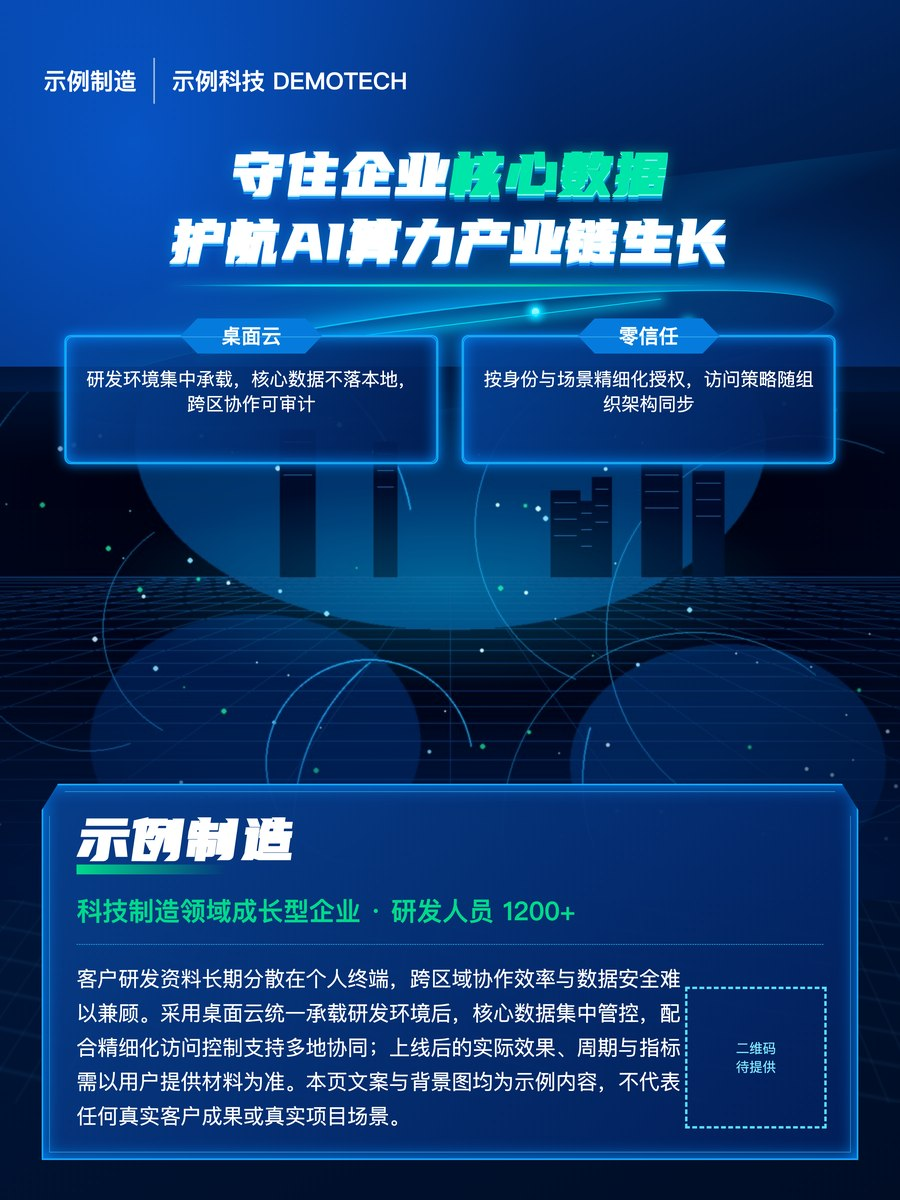
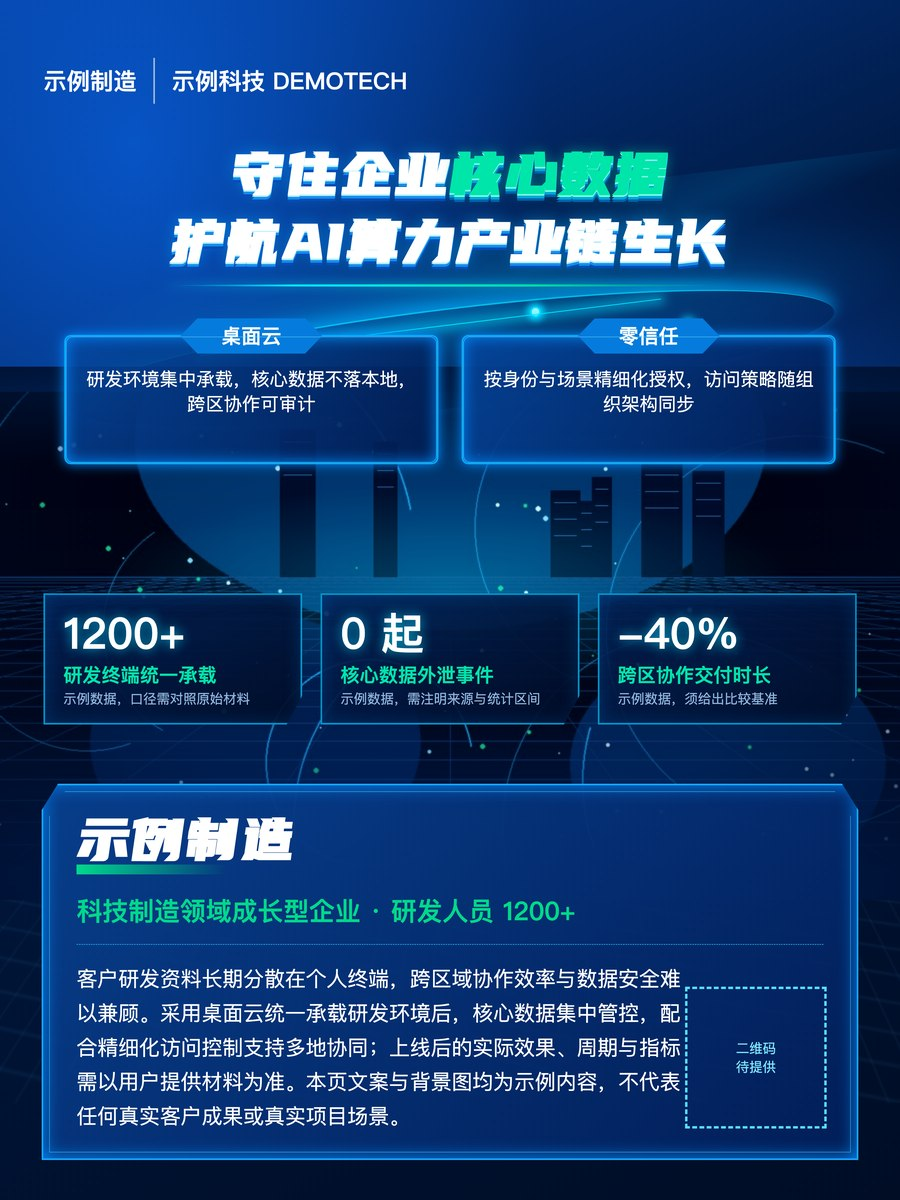
feat(case): 案例版新增量化成果带（results，最多 3 张卡）
- render_poster.py 支持可选 results 字段，压在场景主视觉下沿，缺省不渲染（向后兼容已验证）
- case-poster.md / input-output.md 补充字段规范：无可核验数字不得凑数，有数字必须带 note 口径
- 示例 brief 与两张预览图重出，案例版信息密度与产品版对齐
- README 与在线 Demo 的风格卡片、路由信号表同步

Changed region(s): [[0.0311, 0.4933, 0.9644, 0.6167]]

diff --git a/docs/index.html b/docs/index.html
@@ -158,7 +158,7 @@ footer{margin-top:34px;font-size:12px;color:var(--muted);line-height:1.9;border-
       <img src="img/style-case.jpg" alt="客户案例版海报示例（深底）">
       <div class="sc-body">
         <h3>客户案例版<span class="pill dark">深底 · 1080×1440</span></h3>
-        <p>靠<b>场景、客户背书与结果叙事</b>建立可信度：联合品牌区、大主题、方案卡、实景 hero、客户故事块。</p>
+        <p>靠<b>场景、客户背书与结果叙事</b>建立可信度：联合品牌区、大主题、方案卡、实景 hero、量化成果带、客户故事块。</p>
         <ul class="sc-sig"><li>客户名称/Logo</li><li>遇到的问题</li><li>落地成果</li><li>实景照片</li><li>多地协同</li></ul>
         <p class="sc-rec">推荐：优设标题黑 × 立体挤出（对应 Skill 的 tech-shadow 暗底 + 发光描边）</p>
       </div>

diff --git a/scripts/render_poster.py b/scripts/render_poster.py
@@ -218,20 +218,25 @@ h1{font-size:50px;line-height:1.04;margin:8px 0 0;max-width:660px}.poster h1.h1a
 
 def case(d):
     solutions = "".join(f'<div class="solution"><b>{e(x.get("name"))}</b><span>{e(x.get("value"))}</span></div>' for x in d.get("solutions",[])[:2])
+    results = d.get("results") or []
+    results_html = "".join(
+        f'<div class="result"><b>{e(x.get("value"))}</b><span>{e(x.get("label"))}</span>'
+        f'<small>{e(x.get("note"))}</small></div>' for x in results[:3])
+    results_block = (f'<div class="results">{results_html}</div>' if results_html else "")
     customer_logo, vendor_logo, hero, qr = map(url, [d.get("customer_logo"),d.get("vendor_logo"),d.get("hero_image"),d.get("qr_image")])
     css = BASE + art_css(d, dark=True) + """
 .poster{width:1080px;height:1440px;padding:54px 52px;color:white;background:#001337;isolation:isolate}.poster:before{content:'';position:absolute;inset:0;z-index:-4;background:radial-gradient(ellipse at 15% 12%,#0754c5 0,transparent 38%),radial-gradient(ellipse at 85% 42%,#063d96 0,transparent 34%),linear-gradient(155deg,#063f9e 0,#00183f 38%,#000d25 100%)}.poster:after{content:'';position:absolute;left:-8%;right:-8%;top:245px;height:270px;z-index:-3;background:radial-gradient(ellipse at 52% 50%,rgba(0,174,255,.28),transparent 58%),linear-gradient(164deg,transparent 35%,rgba(0,188,255,.12) 48%,transparent 57%);transform:rotate(-7deg)}.content{position:relative;z-index:4}.brands{height:86px;display:flex;align-items:center;gap:20px}.brands img{max-height:60px;max-width:250px;object-fit:contain;background:#fff;padding:7px 12px;border-radius:6px}.divider{height:55px;width:2px;background:#9bb8dc}.brand-text{font-weight:800;font-size:28px}
 .poster .tech-grid{position:absolute;z-index:-2;left:-5%;right:-5%;top:430px;height:610px;opacity:.32;background:repeating-linear-gradient(8deg,transparent 0 9px,rgba(72,183,255,.22) 10px,transparent 11px),repeating-linear-gradient(98deg,transparent 0 13px,rgba(72,183,255,.16) 14px,transparent 15px);transform:perspective(500px) rotateX(48deg) scale(1.25)}.poster .energy-line{position:absolute;z-index:1;left:7%;right:7%;top:370px;height:120px;border-top:2px solid rgba(0,218,255,.8);border-radius:50%;transform:rotate(-7deg);box-shadow:0 -7px 18px rgba(0,174,255,.6),0 -18px 32px rgba(0,174,255,.22)}.poster .energy-line:after{content:'';position:absolute;left:18%;right:22%;top:18px;height:1px;background:#00e6ff;box-shadow:0 0 13px 4px rgba(0,219,255,.7)}.poster .energy-line:before{content:'';position:absolute;left:61%;top:9px;width:9px;height:9px;background:#d8ffff;border:2px solid #00dfff;border-radius:50%;box-shadow:0 0 8px 4px #00cfff,180px 38px 0 -2px #baffff,180px 38px 0 0 #00dfff,180px 38px 10px 3px #00cfff}
 h1{margin:28px auto 58px;text-align:center;font-size:70px;line-height:1.15;letter-spacing:inherit}.poster h1.h1art{font-style:normal;text-shadow:0 2px 0 #b9efff,0 5px 0 #148fe8,0 8px 0 #064bba,0 0 18px rgba(0,170,255,.48)}.poster h1.h1art .hl{color:#00e5aa;text-shadow:0 2px 0 #7effe2,0 5px 0 #00a9d6,0 8px 0 #0063ae,0 0 15px rgba(0,230,170,.42)}.poster h1.h1art:after{content:'';display:block;height:3px;width:70%;margin:12px auto 0;background:linear-gradient(90deg,transparent,#00e9ff 22%,#00dca4 65%,transparent);box-shadow:0 0 12px #00cfff;border-radius:50%}.solutions{display:flex;justify-content:center;gap:28px;min-height:155px}.solution{width:46%;padding:32px 18px 18px;text-align:center;background:linear-gradient(135deg,rgba(5,71,160,.88),rgba(2,26,78,.88));border:2px solid #00aefc;box-shadow:0 0 18px #008cff inset,0 0 14px #008cff;position:relative;min-height:142px;border-radius:8px}.solution:after{content:'';position:absolute;inset:0;border:1px solid rgba(115,226,255,.45);border-radius:8px;pointer-events:none}.solution b{position:absolute;top:-22px;left:50%;transform:translateX(-50%);min-width:170px;padding:8px 24px;background:#057bdd;clip-path:polygon(12% 0,88% 0,100% 50%,88% 100%,12% 100%,0 50%);font-size:24px;line-height:1.1}.solution span{font-size:22px;line-height:1.35;display:block;padding-top:4px}
 .hero{position:absolute;z-index:0;left:0;top:470px;width:100%;height:570px;object-fit:cover;filter:saturate(.86) contrast(1.08)}.hero-shade{position:absolute;z-index:1;left:0;right:0;top:440px;height:640px;background:radial-gradient(ellipse at 50% 34%,transparent 0 32%,rgba(0,13,42,.12) 58%,rgba(0,12,38,.72) 100%),linear-gradient(#00183f 0%,transparent 18%,transparent 65%,#00225e 100%)}.hero-light{position:absolute;z-index:1;left:8%;right:8%;top:570px;height:270px;background:radial-gradient(ellipse,rgba(0,205,255,.28),transparent 65%);mix-blend-mode:screen;pointer-events:none}.story{position:absolute;z-index:3;left:50px;right:50px;bottom:48px;min-height:390px;padding:30px 40px;background:linear-gradient(135deg,rgba(8,65,145,.92),rgba(2,31,91,.93));border:2px solid #18a9ff;box-shadow:0 0 22px #008cff inset,0 0 16px #008cff;clip-path:polygon(2% 0,98% 0,100% 7%,100% 100%,0 100%,0 7%)}.story:before{content:'';position:absolute;inset:7px;z-index:-1;border:1px solid rgba(91,223,255,.45);clip-path:polygon(2% 0,98% 0,100% 7%,100% 100%,0 100%,0 7%)}
-.customer{font-size:70px;line-height:1;font-weight:900;margin-bottom:22px}.customer:after{content:'';display:block;width:180px;height:12px;margin-top:-5px;background:linear-gradient(90deg,#00d98b,transparent)}.position{font-size:31px;color:#00d98b;font-weight:800;padding-bottom:18px;border-bottom:1px dashed #12a7e4}.summary{max-width:730px;font-size:25px;line-height:1.65;margin:20px 0 0}.qr{position:absolute;width:170px;height:170px;right:36px;bottom:36px;background:white;padding:10px;border:4px solid #56dfff}.qr-placeholder{position:absolute;right:36px;bottom:36px;width:170px;height:170px;border:3px dashed #56dfff;display:grid;place-items:center;text-align:center;color:#7feaff}
+.results{position:absolute;z-index:2;left:52px;right:52px;top:712px;display:flex;gap:22px}.result{flex:1 1 0;min-width:0;padding:20px 22px 18px;background:linear-gradient(150deg,rgba(3,32,84,.9),rgba(0,12,38,.94));border:2px solid rgba(0,200,255,.72);box-shadow:0 0 16px rgba(0,140,255,.55),0 0 22px rgba(0,140,255,.22) inset;clip-path:polygon(0 0,100% 0,100% 78%,94% 100%,0 100%);display:flex;flex-direction:column;gap:2px}.result b{font-size:52px;line-height:1;font-weight:900;color:#fff;text-shadow:0 0 14px rgba(0,220,255,.75)}.result span{font-size:23px;font-weight:700;color:#00e5aa;margin-top:6px}.result small{font-size:16px;color:#8fb6dd;line-height:1.35}.customer{font-size:70px;line-height:1;font-weight:900;margin-bottom:22px}.customer:after{content:'';display:block;width:180px;height:12px;margin-top:-5px;background:linear-gradient(90deg,#00d98b,transparent)}.position{font-size:31px;color:#00d98b;font-weight:800;padding-bottom:18px;border-bottom:1px dashed #12a7e4}.summary{max-width:730px;font-size:25px;line-height:1.65;margin:20px 0 0}.qr{position:absolute;width:170px;height:170px;right:36px;bottom:36px;background:white;padding:10px;border:4px solid #56dfff}.qr-placeholder{position:absolute;right:36px;bottom:36px;width:170px;height:170px;border:3px dashed #56dfff;display:grid;place-items:center;text-align:center;color:#7feaff}
 """
     left = f'<img src="{customer_logo}">' if customer_logo else f'<span class="brand-text">{e(d.get("customer"))}</span>'
     right = f'<img src="{vendor_logo}">' if vendor_logo else f'<span class="brand-text">{e(d.get("brand"))}</span>'
     hero_tag = f'<img class="hero" src="{hero}">' if hero else ""
     qr_tag = f'<img class="qr" src="{qr}">' if qr else '<div class="qr-placeholder">二维码<br>待提供</div>'
     campaign = rich(d.get("campaign"))
-    body = f'<div class="poster"><div class="tech-grid"></div><div class="energy-line"></div><div class="content"><div class="brands">{left}<i class="divider"></i>{right}</div><h1 class="h1art">{campaign}</h1><div class="solutions">{solutions}</div></div>{hero_tag}<div class="hero-shade"></div><div class="hero-light"></div><div class="story"><div class="customer h1art">{e(d.get("customer"))}</div><div class="position">{e(d.get("customer_position"))}</div><p class="summary">{e(d.get("summary"))}</p>{qr_tag}</div></div>'
+    body = f'<div class="poster"><div class="tech-grid"></div><div class="energy-line"></div><div class="content"><div class="brands">{left}<i class="divider"></i>{right}</div><h1 class="h1art">{campaign}</h1><div class="solutions">{solutions}</div></div>{hero_tag}<div class="hero-shade"></div><div class="hero-light"></div>{results_block}<div class="story"><div class="customer h1art">{e(d.get("customer"))}</div><div class="position">{e(d.get("customer_position"))}</div><p class="summary">{e(d.get("summary"))}</p>{qr_tag}</div></div>'
     return css, body
 
 def main():

diff --git a/README.md b/README.md
@@ -12,7 +12,7 @@
 <td width="50%"><img src="assets/demo/preview-case-poster.jpg" alt="客户案例版海报示例"></td>
 </tr><tr>
 <td align="center"><b>① 产品宣传版</b> · 浅底 794×1123<br>靠结构与证据：指标卡 / 界面实拍 / 核心能力 / 套餐表 / CTA 免责</td>
-<td align="center"><b>② 客户案例版</b> · 深底 1080×1440<br>靠场景与背书：联合品牌区 / 大主题 / 方案卡 / 实景 hero / 客户故事</td>
+<td align="center"><b>② 客户案例版</b> · 深底 1080×1440<br>靠场景与背书：联合品牌区 / 大主题 / 方案卡 / 实景 hero / 量化成果带 / 客户故事</td>
 </tr></table>
 
 > 两张图都由本 Skill 从示例 brief 直接渲染（`render_poster.py` + `export_png.py --dpi 300`），
@@ -47,6 +47,7 @@
 | 界面截图（2–4 张）、套餐与价格口径、"这个产品能做什么" | 各 +2 | 产品版 |
 | 客户名称与客户 Logo、客户场景/问题/落地成果 | 各 +3 | 案例版 |
 | 客户实景照片（厂区/机房/园区）、"这家客户发生了什么变化" | +2 / +2 | 案例版 |
+| 可核验的落地数字（授权规模、事故数、交付时长变化） | +1 | 案例版（渲染为量化成果带） |
 
 判定规则（与 `SKILL.md` 路由段一致）：
 

diff --git a/references/case-poster.md b/references/case-poster.md
@@ -20,6 +20,7 @@
 - 卡片：半透明深蓝面板，1–2px 青蓝发光描边，斜切角或六边形标签；发光只服务层级，不覆盖正文。
 - 主图需真实、可识别且与客户业务相关。可做蓝色调色和暗角，但不能修改建筑标识或伪造项目现场。
 - 系列海报固定标题、色板、边框语言和信息位置，只更换客户 Logo、场景、方案标签与案例内容。
+- 量化成果带与场景主视觉共用中下部空间：加了成果带时，场景图可视高度相应压缩，避免与底部客户背书卡重叠（成果带底边距背书卡顶边至少留 24px）。
 
 ## 文案提炼规则
 
